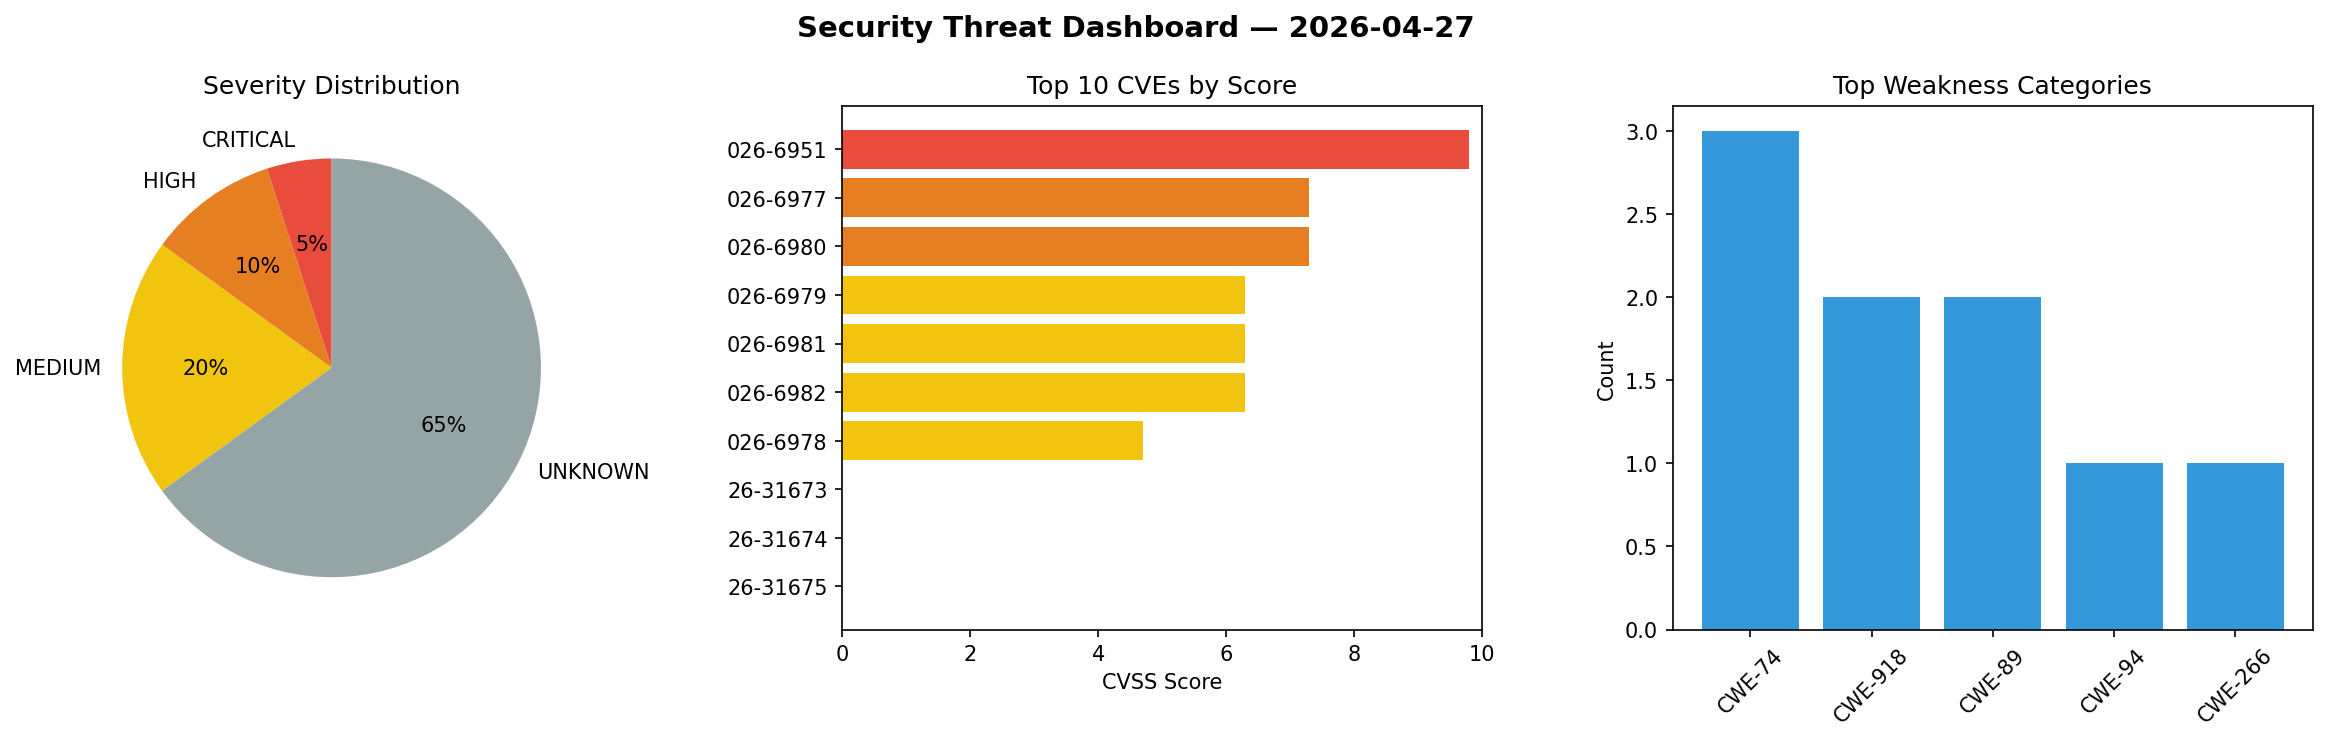
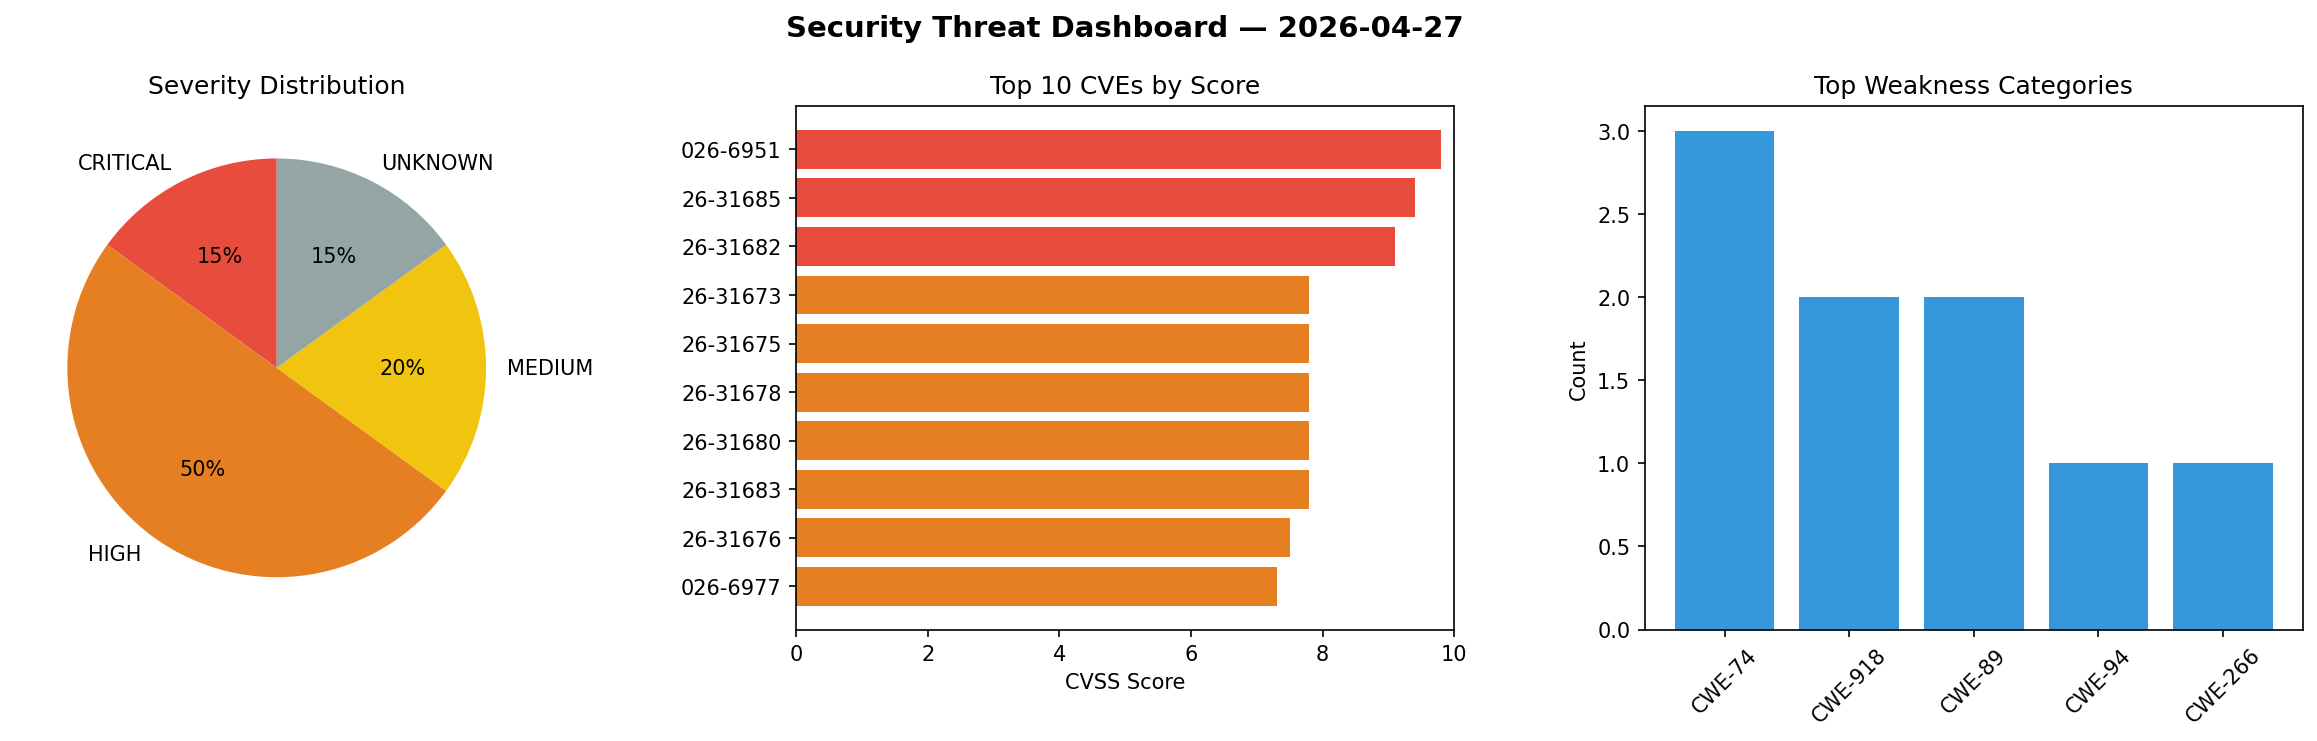
daily-experiments: security scan 2026-04-27T16:00

diff --git a/logs/2026-04-27.md b/logs/2026-04-27.md
@@ -1,6 +1,6 @@
 # Security Scan Report — 2026-04-27
 
-**Scan ID:** `73e8d69e62` | **CVEs:** 20 | **Threat Index:** 130.2
+**Scan ID:** `dec0118c10` | **CVEs:** 20 | **Threat Index:** 386.3
 
 ![Dashboard](2026-04-27_dashboard.png)
 
@@ -10,20 +10,20 @@
 
 | Metric | Value |
 |--------|-------|
-| Threat Index | 130.2 |
-| Critical CVEs | 1 |
-| CRITICAL | 1 |
-| HIGH | 2 |
+| Threat Index | 386.3 |
+| Critical CVEs | 3 |
+| CRITICAL | 3 |
+| HIGH | 10 |
 | MEDIUM | 4 |
-| UNKNOWN | 13 |
+| UNKNOWN | 3 |
 
 ## Delta vs Yesterday
 
 | Metric | Today | Yesterday | Change |
 |--------|-------|-----------|--------|
 | total_cves | 20 | 20 | ➡ 0.0% |
-| threat_index | 130.2 | 403.4 | 📉 -67.7% |
-| critical_count | 1 | 5 | 📉 -80.0% |
+| threat_index | 386.3 | 403.4 | 📉 -4.2% |
+| critical_count | 3 | 5 | 📉 -40.0% |
 
 ## Top Weakness Categories
 
@@ -40,33 +40,37 @@
 | CVE ID | Score | Severity | Description |
 |--------|-------|----------|-------------|
 | CVE-2026-6951 | 9.8 | CRITICAL | Versions of the package simple-git before 3.36.0 are vulnerable to Remote Code E... |
-| CVE-2026-6977 | 7.3 | HIGH | A security vulnerability has been detected in vanna-ai vanna up to 2.0.2. The af... |
-| CVE-2026-6980 | 7.3 | HIGH | A vulnerability has been found in Divyanshu-hash GitPilot-MCP up to 9ed9f153ba41... |
-| CVE-2026-6979 | 6.3 | MEDIUM | A flaw has been found in devlikeapro WAHA up to 2026.3.4. This affects an unknow... |
-| CVE-2026-6981 | 6.3 | MEDIUM | A vulnerability was found in IhateCreatingUserNames2 AiraHub2 up to 3e4b77fd7d48... |
-| CVE-2026-6982 | 6.3 | MEDIUM | A vulnerability was determined in star7th ShowDoc up to 2.10.10/3.6.2/3.8.0. Aff... |
-| CVE-2026-6978 | 4.7 | MEDIUM | A vulnerability was detected in JiZhiCMS up to 2.5.6. The impacted element is th... |
-| CVE-2026-31673 | 0.0 | UNKNOWN | In the Linux kernel, the following vulnerability has been resolved:
-
-af_unix: re... |
-| CVE-2026-31674 | 0.0 | UNKNOWN | In the Linux kernel, the following vulnerability has been resolved:
+| CVE-2026-31685 | 9.4 | CRITICAL | In the Linux kernel, the following vulnerability has been resolved:
 
 netfilter: ... |
-| CVE-2026-31675 | 0.0 | UNKNOWN | In the Linux kernel, the following vulnerability has been resolved:
+| CVE-2026-31682 | 9.1 | CRITICAL | In the Linux kernel, the following vulnerability has been resolved:
+
+bridge: br_... |
+| CVE-2026-31673 | 7.8 | HIGH | In the Linux kernel, the following vulnerability has been resolved:
+
+af_unix: re... |
+| CVE-2026-31675 | 7.8 | HIGH | In the Linux kernel, the following vulnerability has been resolved:
 
 net/sched: ... |
-| CVE-2026-31676 | 0.0 | UNKNOWN | In the Linux kernel, the following vulnerability has been resolved:
-
-rxrpc: only... |
-| CVE-2026-31677 | 0.0 | UNKNOWN | In the Linux kernel, the following vulnerability has been resolved:
-
-crypto: af_... |
-| CVE-2026-31678 | 0.0 | UNKNOWN | In the Linux kernel, the following vulnerability has been resolved:
+| CVE-2026-31678 | 7.8 | HIGH | In the Linux kernel, the following vulnerability has been resolved:
 
 openvswitch... |
-| CVE-2026-31679 | 0.0 | UNKNOWN | In the Linux kernel, the following vulnerability has been resolved:
-
-openvswitch... |
-| CVE-2026-31680 | 0.0 | UNKNOWN | In the Linux kernel, the following vulnerability has been resolved:
+| CVE-2026-31680 | 7.8 | HIGH | In the Linux kernel, the following vulnerability has been resolved:
 
 net: ipv6: ... |
+| CVE-2026-31683 | 7.8 | HIGH | In the Linux kernel, the following vulnerability has been resolved:
+
+batman-adv:... |
+| CVE-2026-31676 | 7.5 | HIGH | In the Linux kernel, the following vulnerability has been resolved:
+
+rxrpc: only... |
+| CVE-2026-6977 | 7.3 | HIGH | A security vulnerability has been detected in vanna-ai vanna up to 2.0.2. The af... |
+| CVE-2026-6980 | 7.3 | HIGH | A vulnerability has been found in Divyanshu-hash GitPilot-MCP up to 9ed9f153ba41... |
+| CVE-2026-31674 | 7.1 | HIGH | In the Linux kernel, the following vulnerability has been resolved:
+
+netfilter: ... |
+| CVE-2026-31679 | 7.1 | HIGH | In the Linux kernel, the following vulnerability has been resolved:
+
+openvswitch... |
+| CVE-2026-6979 | 6.3 | MEDIUM | A flaw has been found in devlikeapro WAHA up to 2026.3.4. This affects an unknow... |
+| CVE-2026-6981 | 6.3 | MEDIUM | A vulnerability was found in IhateCreatingUserNames2 AiraHub2 up to 3e4b77fd7d48... |
